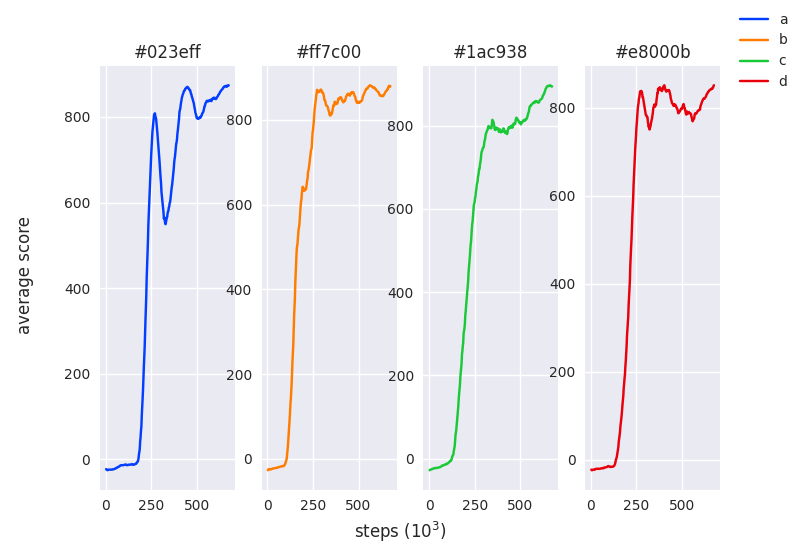
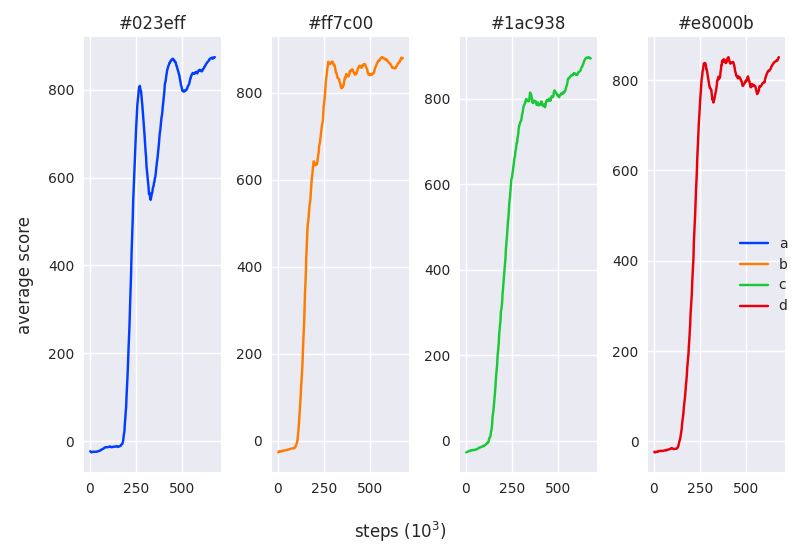
plt legend

diff --git a/tensorboardPlotting/tfmatplotlib.py b/tensorboardPlotting/tfmatplotlib.py
@@ -112,8 +112,8 @@ if __name__ == '__main__':
     
     # make_one_graph(input_paths[0], axs[0], output_file = None)
     
-    # plt.tight_layout()
-    fig.legend()
+    plt.tight_layout()
+    fig.legend(loc="center right")
     fig.savefig("a.png")
     
     
